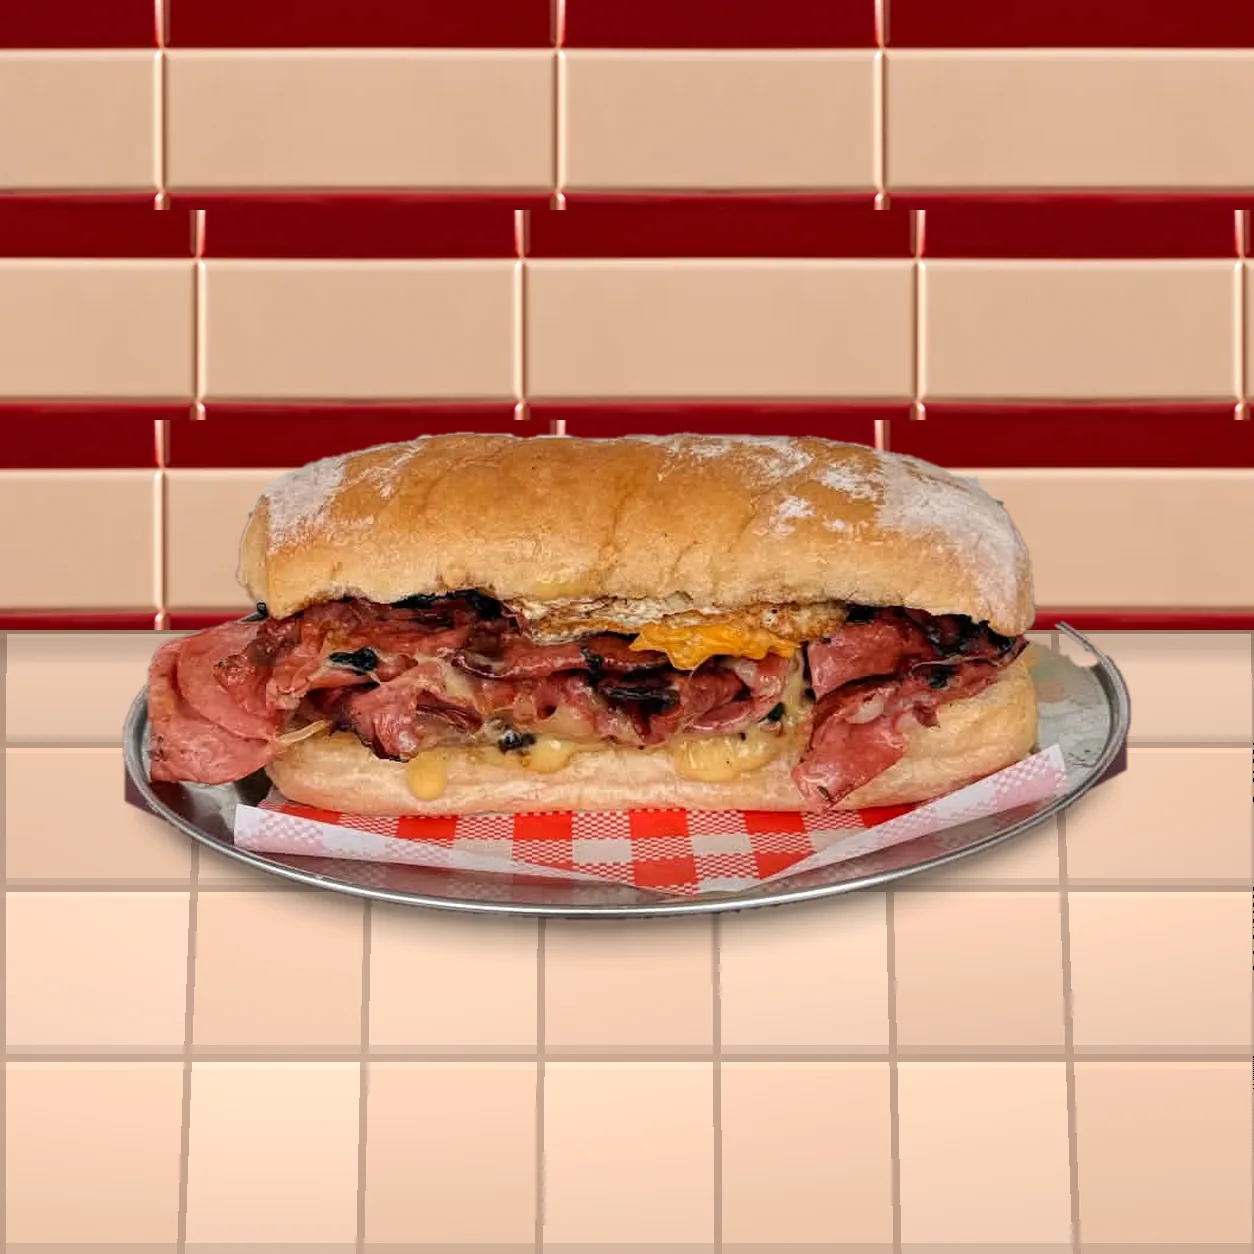
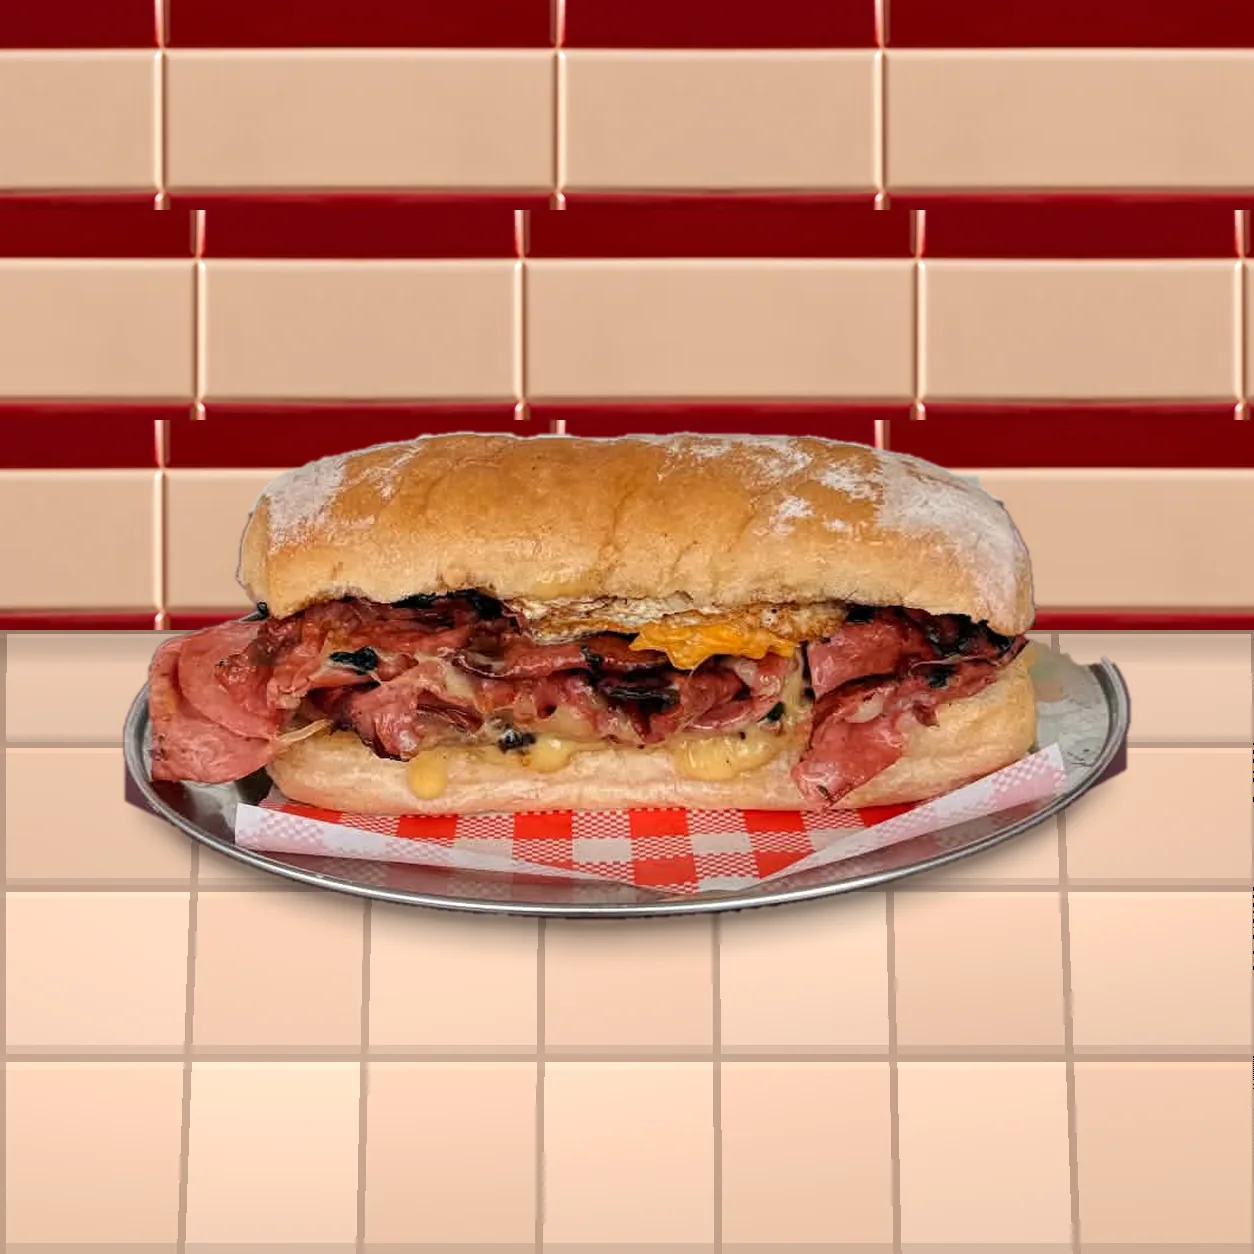
Add the grounded Number #8 chicken melt and smooth the Number #5 rim.
The selected kitchen photo is cut down to the sandwich, plate, and checker paper, then seated on the same counter as the other real plates. The pointed spike on the Number #5 rim is removed.

diff --git a/menu/index.html b/menu/index.html
@@ -281,7 +281,8 @@
                             <div class="flex justify-between items-start mb-2 gap-3"><h3 class="text-xl font-semibold">Number #7</h3><span class="font-condensed burgundy-text text-xl tracking-wide whitespace-nowrap">$16.50</span></div>
                             <p class="text-stone-500 text-sm font-light leading-relaxed">Tuna Melt - Tuna Salad and Melted Cheese on Sourdough.</p>
                         </article>
-                        <article class="bg-white p-8 rounded-[3rem] shadow-sm border border-stone-100">
+                        <article class="group bg-white p-8 rounded-[3rem] shadow-sm border border-stone-100 hover:shadow-xl hover:-translate-y-1 transition-all duration-500">
+                            <div class="h-48 bg-stone-100 rounded-[2rem] mb-6 overflow-hidden"><img src="../img/menu/number-8.webp" alt="Number 8 chicken melt with chicken salad and melted cheese on sourdough" class="w-full h-full object-cover"></div>
                             <div class="flex justify-between items-start mb-2 gap-3"><h3 class="text-xl font-semibold">Number #8</h3><span class="font-condensed burgundy-text text-xl tracking-wide whitespace-nowrap">$17.00</span></div>
                             <p class="text-stone-500 text-sm font-light leading-relaxed">Chicken Melt - Chicken Salad and Melted Cheese on Sourdough.</p>
                         </article>
